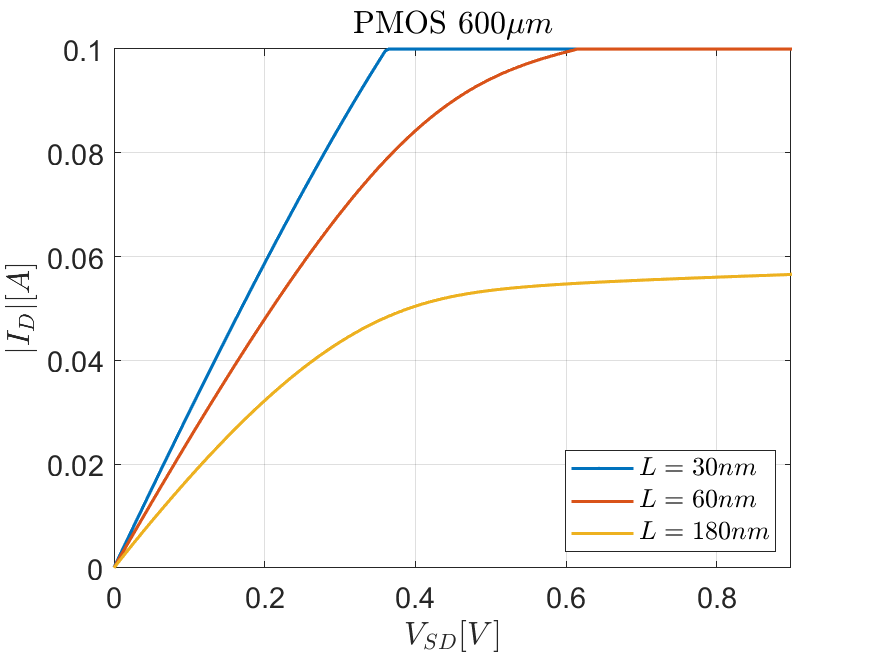
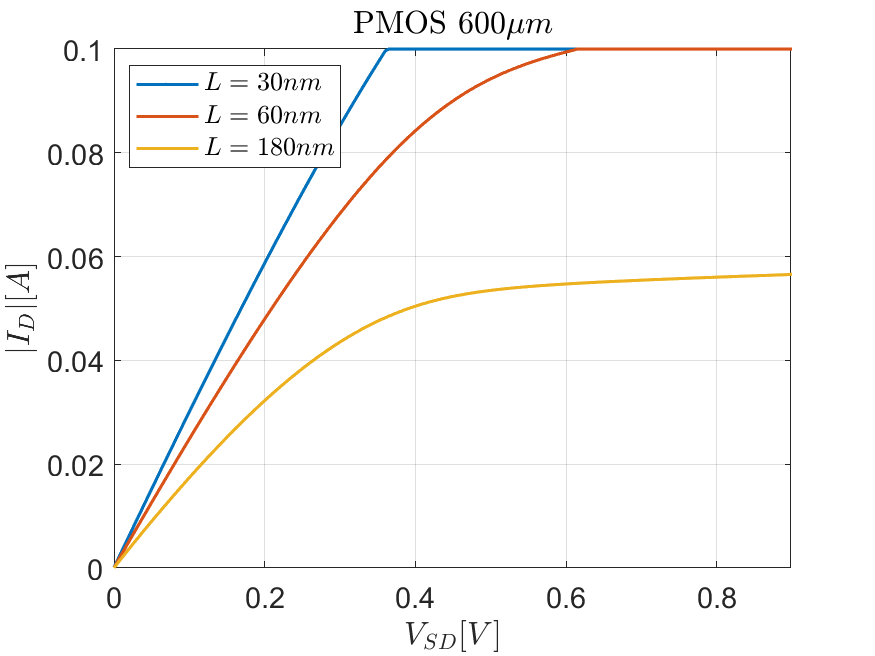
Esecuzione plot 450mV
ID-Vgs e ID-Vds

Changed region(s): [[0.1543, 0.0915, 0.4011, 0.2744], [0.648, 0.7012, 0.8949, 0.8232]]

diff --git a/Script Statiche/ScriptPlot/PLOT_ID_VGS_VDS.m b/Script Statiche/ScriptPlot/PLOT_ID_VGS_VDS.m
@@ -3,12 +3,25 @@ classdef PLOT_ID_VGS_VDS
 
     methods (Static)
 
+        % Funzione che svolge sia i plot per id-vgs e id-vds
+        function ID_VGS__e__ID_VDS(VDS_mV , VGS_mV)
+            
+            PLOT_ID_VGS_VDS.ID_VGS_Raggruppata_W(VDS_mV);
+
+            PLOT_ID_VGS_VDS.ID_VDS_Raggruppata_W(VGS_mV);
+
+            
+        end
+
+
         % Funzione che esegue i plot di "ID-Vgs", per utilizzarla
         % posizionarsi nella cartella relativa all'irraggiamento da cui si
         % vuole fare i plot, chiamare la funzione con eventualmente un
         % parametro che indica a quale VDS in mV si vuole fare il plot, di
         % default è 900mV
         function ID_VGS_Raggruppata_W(VDS_mV)
+
+            setUpPlot();
 
             if nargin == 0
                 VDS_mV = 900;
@@ -106,10 +119,12 @@ classdef PLOT_ID_VGS_VDS
         % vuole fare i plot, chiamare la funzione con eventualmente un
         % parametro che indica a quale VGS in mV si vuole fare il plot, di
         % default è 900mV
-        function ID_VDS_Raggruppata_W(VDS_mV)
+        function ID_VDS_Raggruppata_W(VGS_mV)
+                
+            setUpPlot();
 
             if nargin == 0
-                VDS_mV = 900;
+                VGS_mV = 900;
             end
 
             temp = split(pwd , "\");
@@ -160,7 +175,7 @@ classdef PLOT_ID_VGS_VDS
                 
                 indice_figura = find(ARRAY_W == W);
                 indice_colore_plot = ARRAY_L == L;
-                indice_vds = ARRAY_VGS_mV == VDS_mV;
+                indice_vds = ARRAY_VGS_mV == VGS_mV;
 
                 LEGENDA = sprintf("$L = %d n m$" , L);
 
@@ -175,7 +190,7 @@ classdef PLOT_ID_VGS_VDS
 
             x_label = sprintf("$V_{%s} [V]$" , VDS_LABEL(TIPOLOGIA == tipologia_canale));
             y_label = sprintf("$%sI_{D}%s [A]$" , ID_LABEL(TIPOLOGIA == tipologia_canale) , ID_LABEL(TIPOLOGIA == tipologia_canale));
-            posizione_legenda = "southeast";
+            posizione_legenda = "northwest";
             
             if ~exist(NOME_CARTELLA_SALVATAGGIO , "dir")
                 mkdir(NOME_CARTELLA_SALVATAGGIO);
@@ -189,7 +204,7 @@ classdef PLOT_ID_VGS_VDS
                 grid on
                 xlim([min(vds) , max(vds)]);
 
-                nome_plot_salvataggio = NOME_CARTELLA_SALVATAGGIO + sprintf(PREFISSO_nomePlot , VDS_mV , ARRAY_W(i));
+                nome_plot_salvataggio = NOME_CARTELLA_SALVATAGGIO + sprintf(PREFISSO_nomePlot , VGS_mV , ARRAY_W(i));
 
                 saveas(gcf , nome_plot_salvataggio);
 
